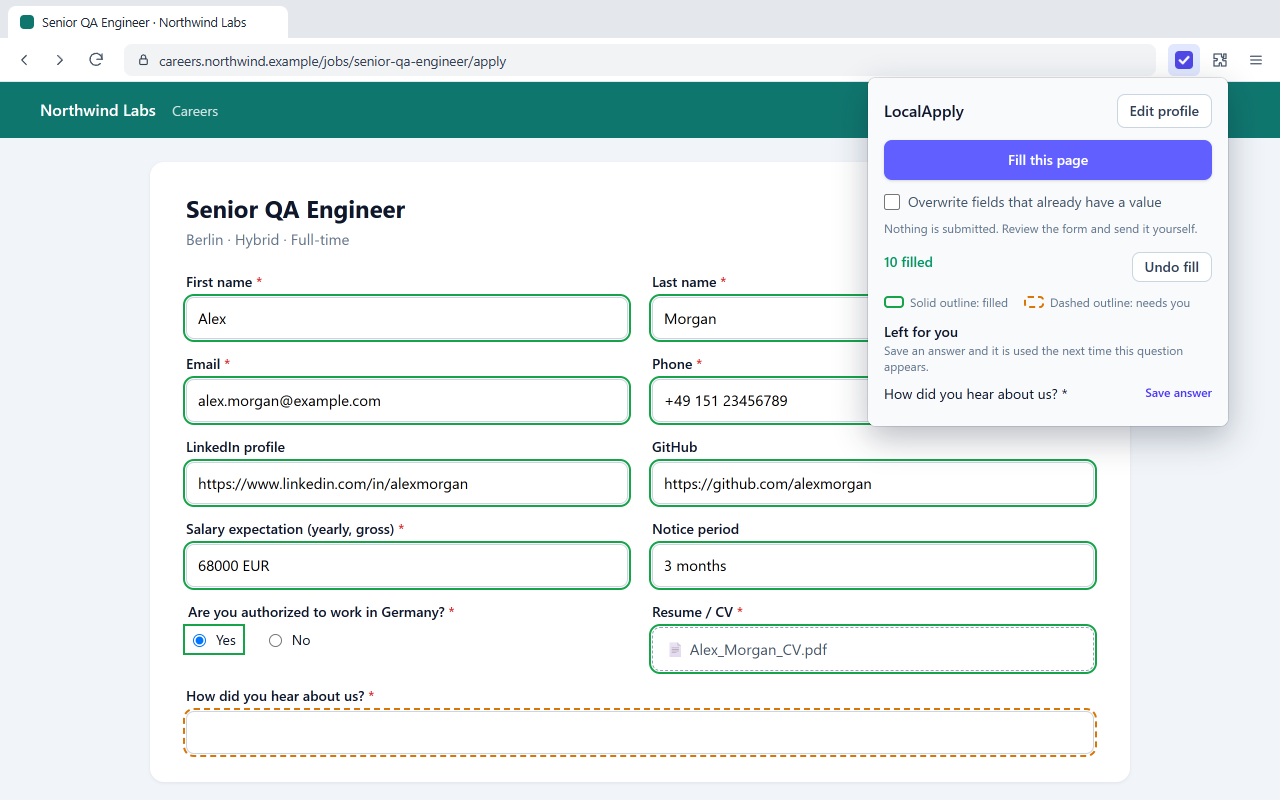
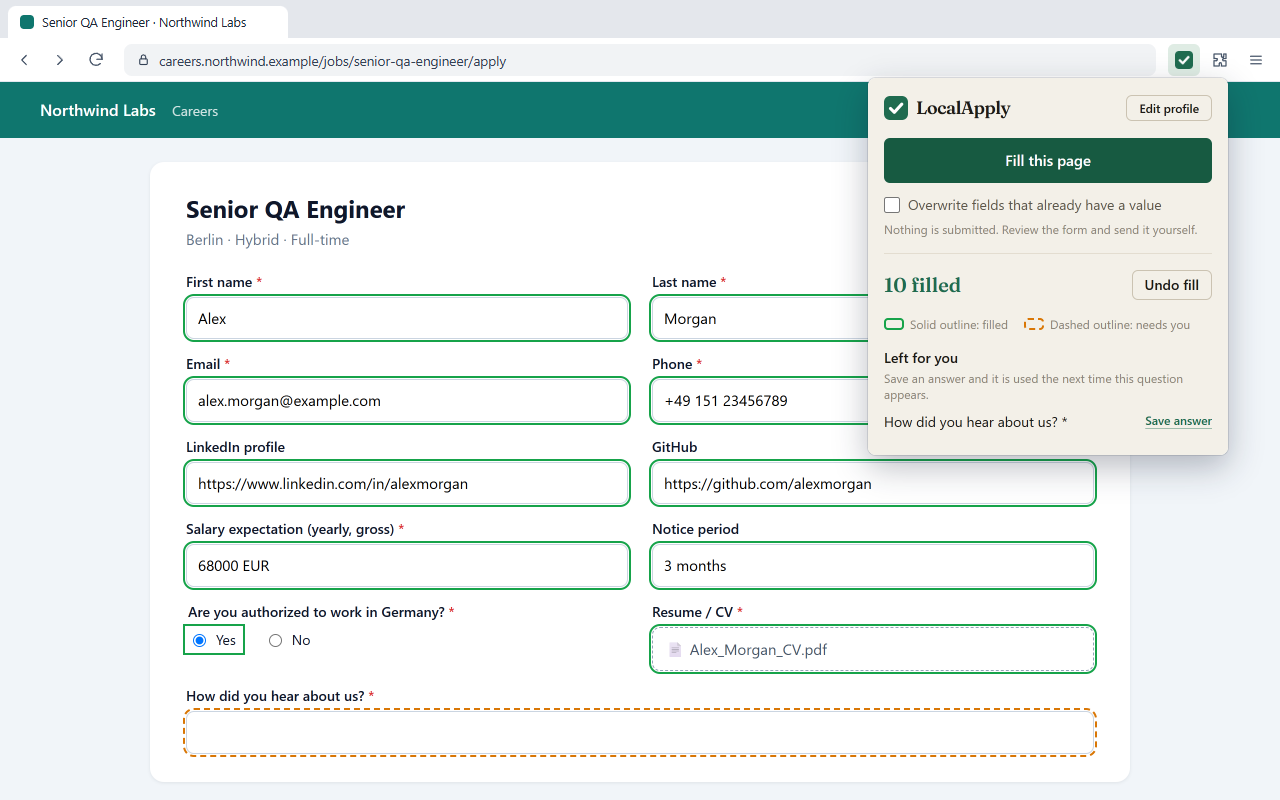
Prepare v0.4.0
Store screenshots and promo tile redrawn in the new look.

Changed region(s): [[0.6875, 0.0312, 0.9688, 0.5938]]

diff --git a/CHANGELOG.md b/CHANGELOG.md
@@ -6,6 +6,8 @@ Add entries under **Unreleased** as you work. `npm run release` requires a secti
 
 ## [Unreleased]
 
+## [0.4.0] - 2026-10-20
+
 ### Added
 
 - The extension speaks your language: the profile page, popup and on-page notice are translated into English, German, French, Spanish, Italian, Dutch, Portuguese and Polish. It starts in your browser's language; switch it with the language menu at the top of the profile page.
